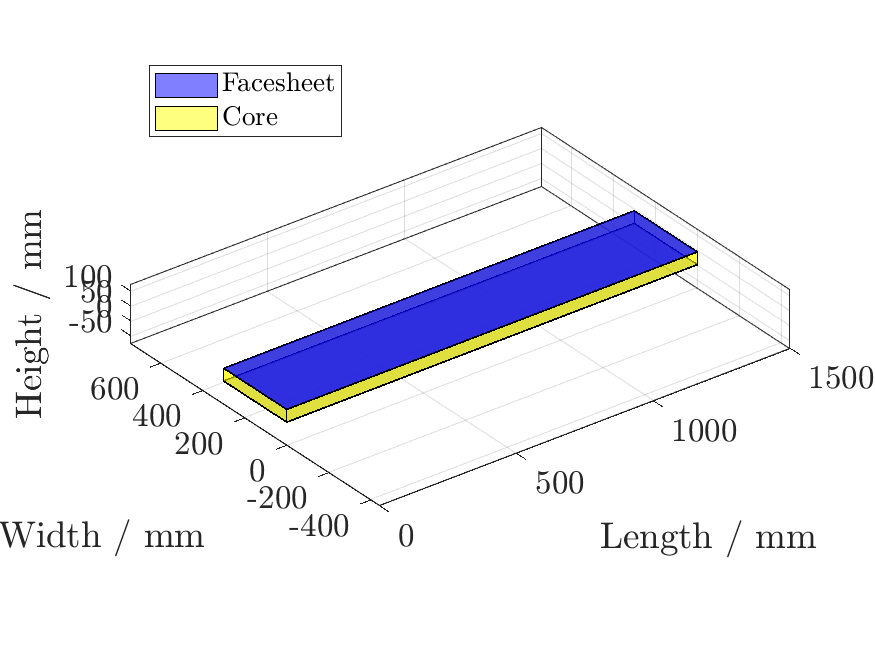
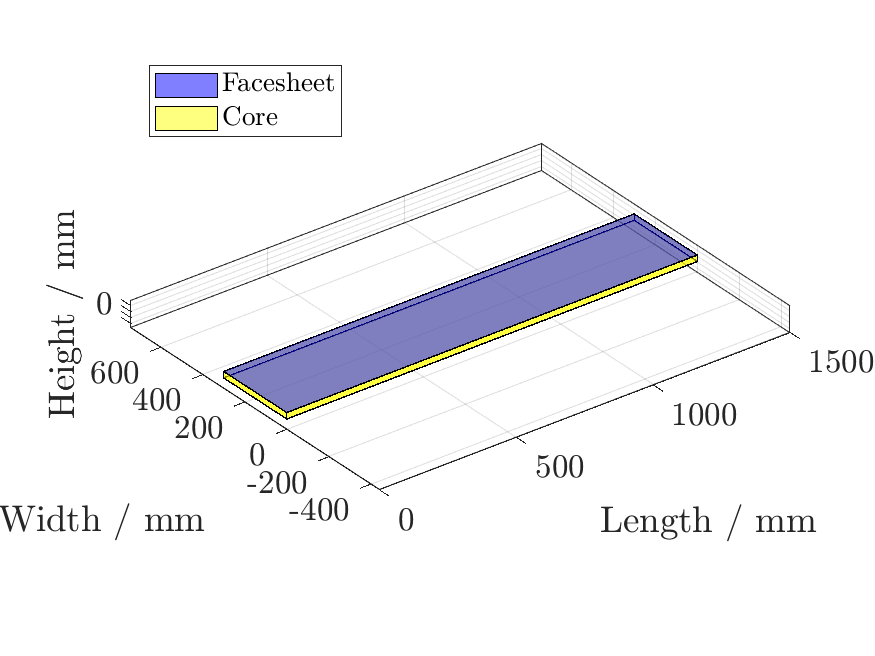
f

diff --git a/Monocoque/Side_Impact_Structure/RearBottomFloor.m b/Monocoque/Side_Impact_Structure/RearBottomFloor.m
@@ -1,0 +1,197 @@
+clear
+clc
+close all
+
+%% Assumptions
+% Beam theory applicable to sandwich structures for low t/c, c/L
+% Assume homogeneous isotropic facesheets with modulus E_f
+% Assume isotropic foam core of modulus E_c
+% Assume sigma_fc_failure is lower than sigma_ft_failure (compressive lower
+% than tensile)
+% Facesheet failure occurs in 3 point bending
+
+%% Definitions
+% t = Thickness of ONE laminate facesheet
+% c = Thickness of foam core
+% d = c + t i.e. distance from halfway through a facesheet to halfway
+% through the other facesheet
+
+%% Facesheet layup
+layup_iteration_0_s = [0 -45 45 0 90 0];
+[A_0, B_0, D_0, ABD_0, Q_0, thickness_0] = ABD(layup_iteration_0_s);
+
+L = 1500e-3;% Length of the structure in m
+b = 300e-3;% Depth of the beam, i.e. about the axis of bending in m
+c = 20e-3;% Thickness of the foam core
+%% Orthoropic approximation
+F = 7500;% Force in N
+
+b_adapted = 0.05; %A
+
+E_f_x = (1 - A_0(1,2)^2 / (A_0(2,2) * A_0(1,1))) * A_0(1,1) / b_adapted;
+E_f_y = (1 - A_0(1,2)^2 / (A_0(2,2) * A_0(1,1))) * A_0(2,2) / b_adapted;
+%% Dimensions and properties
+E_c = psiToPa(65e3);% Modulus of the foam core in Pa
+d = c + thickness_0;
+G_c = psiToPa(35e3);% Shear modulus of the foam core in Pa
+sigma_critical_fc = 1.780e9;% Compressive composite facesheet failure stress in Pa
+tau_critical_glue = 60e6;% Glue delamination stress
+tau_critical_core = psiToPa(360);% Critical core shear stress
+sigma_critical_core = psiToPa(625);% Critical stress same due to isotropic
+rho_fc = 1570;% Facesheet density in kgm^-3
+rho_c = 83.3;% Core density in kgm^-3
+volume_fc = thickness_0 * b * L;% Volume in m^3
+mass_fc = volume_fc * rho_fc;% Mass in kg
+volume_c = c * b * L;% Volume in m^3
+mass_c = volume_c * rho_c;% Mass in kg
+mass_total = mass_fc + mass_c %Total mass per side in kg
+thickness_total = c + 2 * thickness_0
+%% Dimensionless quantities
+tbar = thickness_0 / c;
+cbar = c / L;
+sigmabar = sigma_critical_fc / sigma_critical_core;
+taubar = tau_critical_core / sigma_critical_fc;
+Ebar = E_f_x / sigma_critical_fc;
+Fbar = F / (b * L * sigma_critical_fc);
+
+%% Equivalent bending stiffness
+EI_sw = (E_f_x * b * thickness_0 * d^2 / 2) + (E_f_x * b * thickness_0^3 / 6) + (E_c * b * c^3 / 12);
+
+%% Equivalent shear stiffness
+AG_sw = b * c * G_c;
+
+%% 3 point bend deflection estimation
+delta_3point_perimeter = (F * L^3) / (48 * EI_sw) + (F * L) / (4 * AG_sw);% Approximate deflection in m
+
+%% Facesheet failure
+F_critical_facesheet = (4 * d * b * thickness_0 * sigma_critical_fc) / L;% Critial load in 3-point bending causing facesheet failure
+if F_critical_facesheet < F
+    disp("Sandwich structure fails in facesheet failure")
+end
+
+%% Core delamination
+F_critical_glue = 2 * b * d * tau_critical_glue;
+
+F_critical_CS = 2 * b * d * tau_critical_core;
+
+%% Indentation failure
+F_critical_indentation = b * thickness_0 * ((pi^2 * d * E_f_x * sigma_critical_fc ^ 2) / (3 * L)) ^ (2/3);
+
+%% Min Force for failure
+[minload,i_minload] = min([F_critical_facesheet F_critical_glue F_critical_CS F_critical_indentation]);
+failuremode = ["Facesheet Failure" "Delamination" "Core Shear Failure" "Indenation Failure"];
+disp(['Fails in ' failuremode(i_minload) ' at ' minload ' N'])
+
+%% Energy absorption
+delta_fail = (minload * L^3) / (48 * EI_sw) + (minload * L) / (4 * AG_sw);% Approximate deflection in m
+% Know that it deflects before failure
+
+delta_desired = 0.05;
+F_absorption = delta_desired / ((L^3) / (48 * EI_sw) + (L) / (4 * AG_sw));
+
+Energy_absorbed = delta_desired * F_absorption;
+
+%% Steel absorption
+E_steel = 2e11;
+sigma_y_steel = 3.05e8;
+UTS_steel = 3.65e8;
+no_tubes = 2;
+OD_tube = 25.4e-3;
+wall_thickness = 1.6e-3;
+ID_tube = OD_tube - 2 * wall_thickness;
+
+area_single = pi / 4 * (OD_tube^2 - ID_tube^2);
+area_tubes = area_single * no_tubes;
+
+strain_y_steel = sigma_y_steel / E_steel;
+Energy_absorbed_steel = (strain_y_steel * sigma_y_steel / 2) * area_tubes * L;
+%% Test
+required_EI = 3.4067e+03 / 2
+EI_sw
+
+% Deflects at delta_desired, absorbs more energy assuming linear elasticity
+Energy_absorbed_steel
+Energy_absorbed
+
+%% Visualisation
+% Define the dimensions of the sandwich structure
+LenPlot = L * 1000; % Length in mm
+W = b * 1000; % Width in mm
+t = thickness_0 * 1000;  % Thickness of facesheet in mm
+core = c * 1000;  % Thickness of core in mm
+
+% Create vertices for the facesheets and the core
+facesheet1_vertices = [0 0 0;
+                       LenPlot 0 0;
+                       LenPlot W 0;
+                       0 W 0;
+                       0 0 t;
+                       LenPlot 0 t;
+                       LenPlot W t;
+                       0 W t];
+
+core_vertices = [0 0 t;
+                 LenPlot 0 t;
+                 LenPlot W t;
+                 0 W t;
+                 0 0 (t + core);
+                 LenPlot 0 (t + core);
+                 LenPlot W (t + core);
+                 0 W (t + core)];
+
+facesheet2_vertices = [0 0 (t + core);
+                       LenPlot 0 (t + core);
+                       LenPlot W (t + core);
+                       0 W (t + core);
+                       0 0 (2*t + core);
+                       LenPlot 0 (2*t + core);
+                       LenPlot W (2*t + core);
+                       0 W (2*t + core)];
+
+% Define the faces of the boxes using the vertices
+faces = [1 2 3 4; 
+         5 6 7 8; 
+         1 2 6 5; 
+         2 3 7 6; 
+         3 4 8 7; 
+         4 1 5 8];
+
+% Create the figure
+composite_structure = figure;
+hold on;
+
+% Plot the first facesheet
+patch('Vertices', facesheet1_vertices, 'Faces', faces, 'FaceColor', 'blue', 'EdgeColor', 'black', 'FaceAlpha', 0.5);
+
+% Plot the core
+patch('Vertices', core_vertices, 'Faces', faces, 'FaceColor', 'yellow', 'EdgeColor', 'black', 'FaceAlpha', 0.5);
+
+% Plot the second facesheet
+patch('Vertices', facesheet2_vertices, 'Faces', faces, 'FaceColor', 'blue', 'EdgeColor', 'black', 'FaceAlpha', 0.5);
+
+% Set the axes properties
+xlabel('Length / mm')
+ylabel('Width / mm')
+zlabel('Height / mm')
+axis equal
+grid on
+view(3)
+
+% Add title
+%title('Composite Sandwich Structure')
+legend('Facesheet', 'Core',Location='northwest')
+betterPlot(composite_structure)
+saveas(composite_structure, "composite_sandwich_structure.png")
+hold off;
+
+%% Closing all
+close all
+
+%% Cost per m2 composite
+cost_per_m2_8552 = 35;
+[cost,~] = composite_cost(layup_iteration_0_s,cost_per_m2_8552,L,b);% Minus honeycomb and adhesives, 2 halves
+area_covered = L * b;
+mass_per_m2 = mass_total / area_covered
+cost_per_m2 = cost / area_covered
+volume_total = volume_c + volume_fc;
+rho_total = mass_total / volume_total
